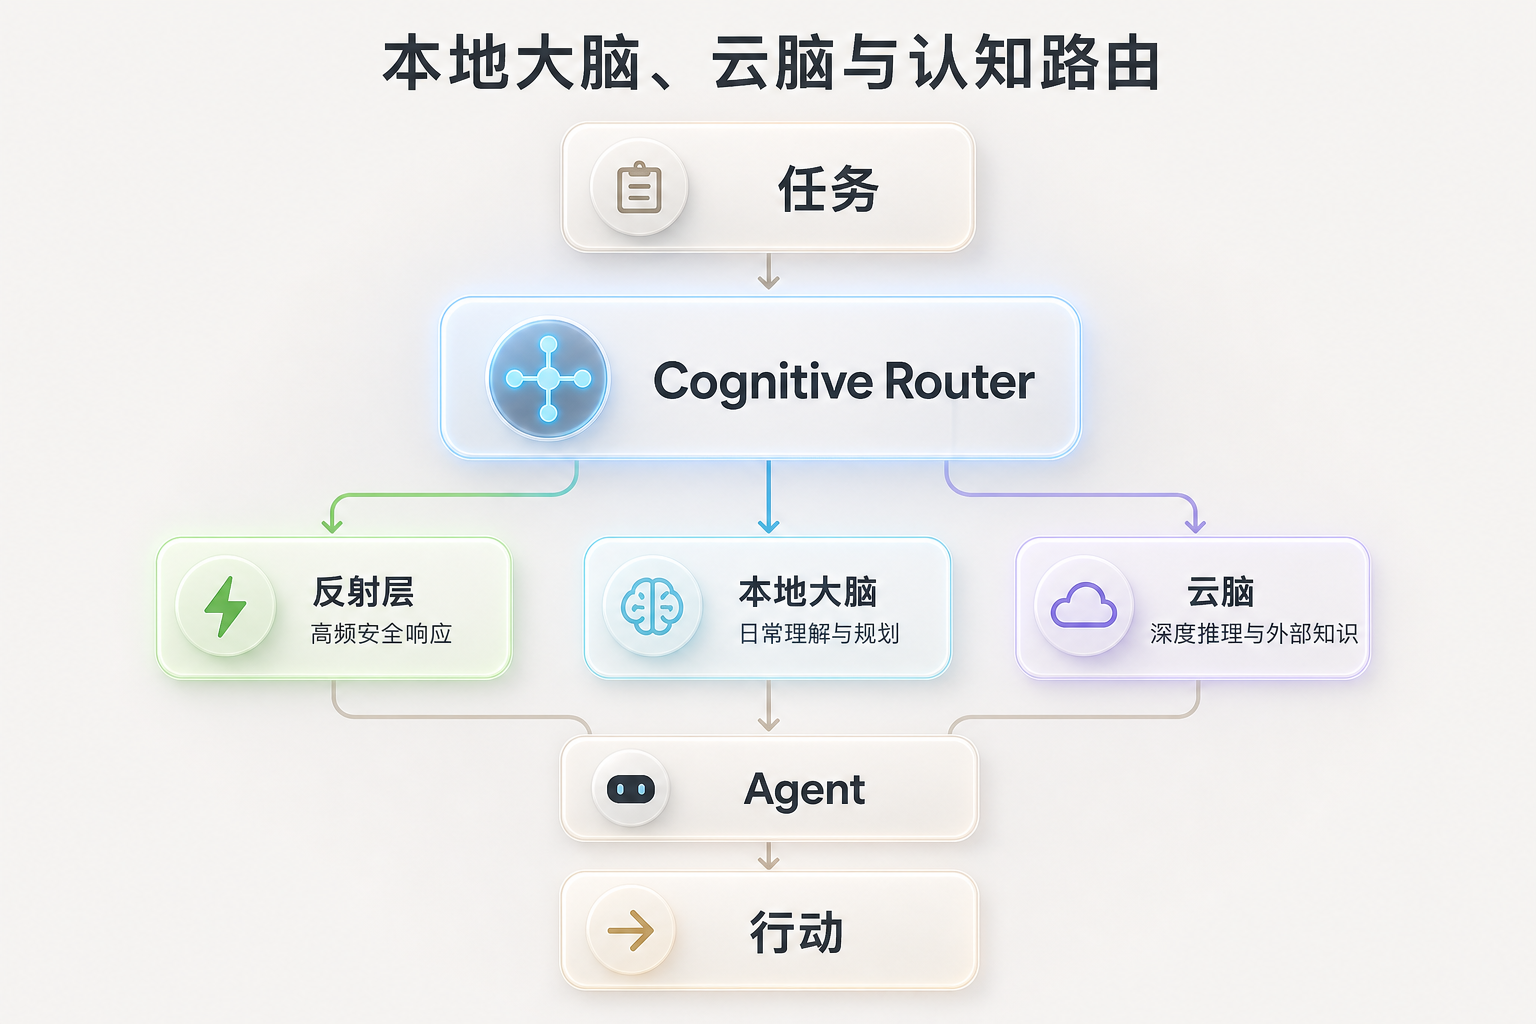
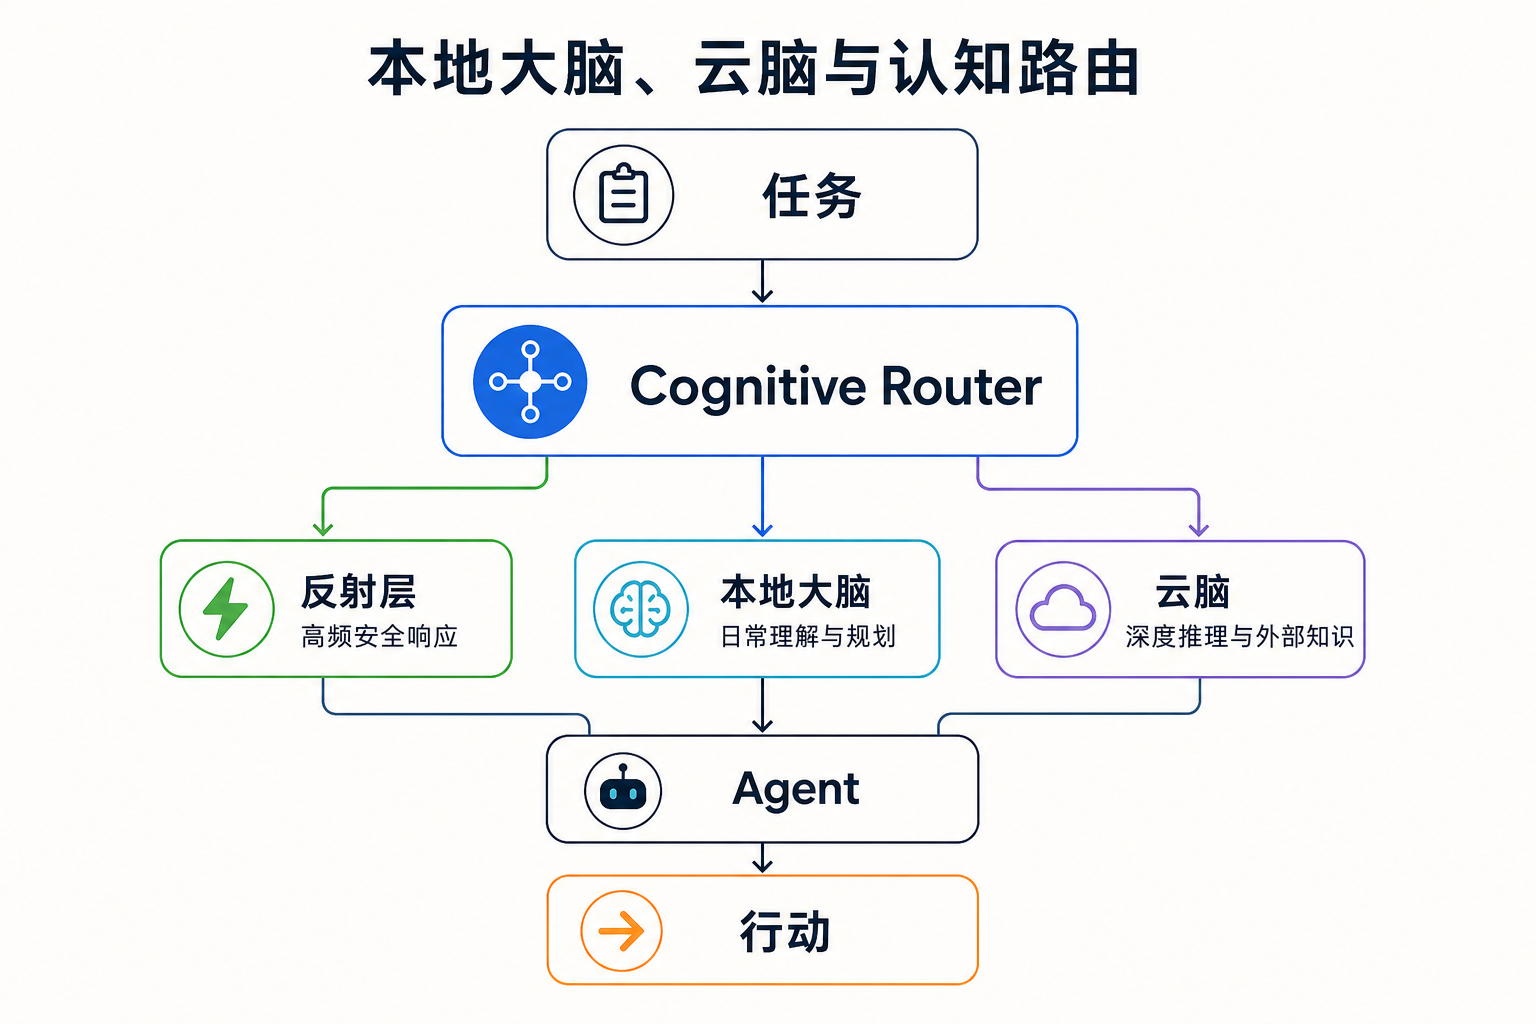
Restyle diagrams with flat vector design

Changed region(s): [[0.0938, 0.125, 0.9062, 1.0], [0.2188, 0.0312, 0.75, 0.0938]]

diff --git a/src/content/posts/embodied-ai-as-agent-tools.md b/src/content/posts/embodied-ai-as-agent-tools.md
@@ -1,7 +1,7 @@
 ---
 author: Yinsen
 pubDatetime: 2026-08-30T09:04:00+08:00
-modDatetime: 2026-08-30T09:41:59+08:00
+modDatetime: 2026-08-30T09:56:42+08:00
 title: 机器人不必由大模型直接控制：把身体变成 Agent 的 Tool
 featured: true
 draft: false
